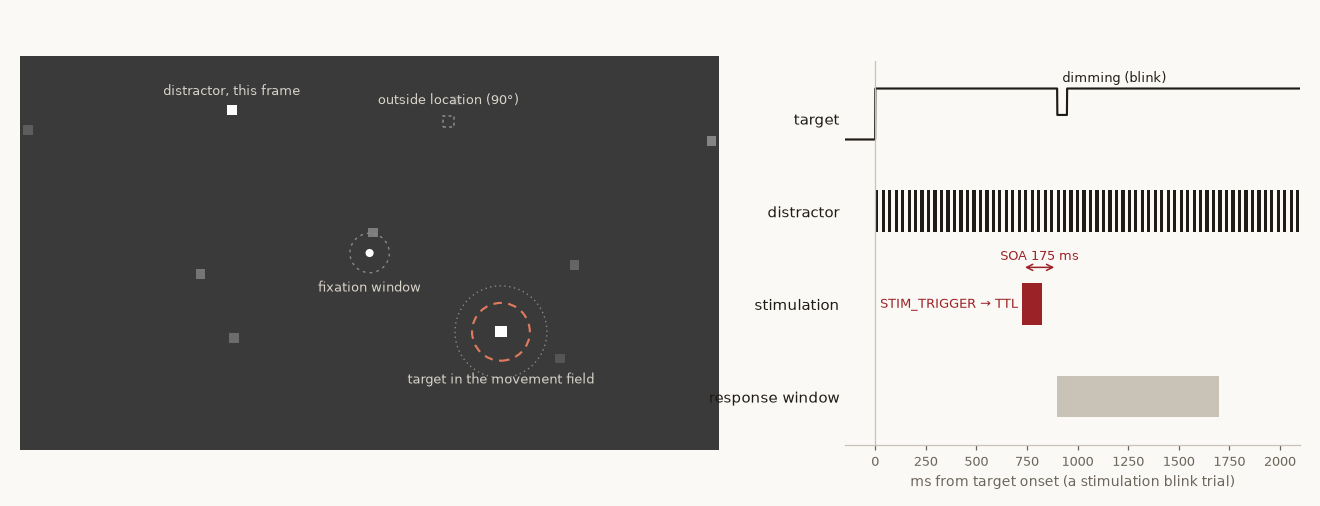
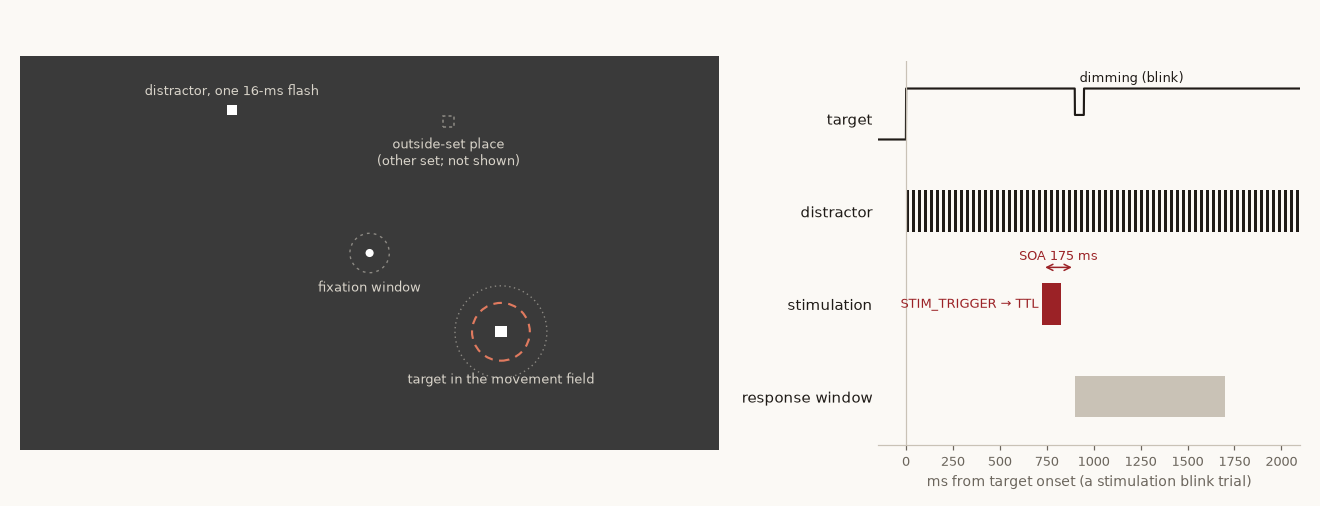
Classics previews: keep exclusive phases and frames apart (Britten, Moore & Fallah, Lisi & Cavanagh)
Britten: the monkey's dots and its two saccade targets were drawn on one panel;
they are now two panels (dots with the fixation window, then targets with their
landing windows). Moore & Fallah: eight earlier distractor flashes were drawn
faintly with the current one; only one flash is drawn now (16 ms of every 32 ms,
never two at once), the outside-set place is labelled as another parameter set,
and the timeline labels are no longer clipped. Lisi & Cavanagh: the perception-vs-
saccade panel is labelled as the paper's reported result, not a stimulus, and the
perceived path as never displayed. Regression tests for Britten and Moore & Fallah.
No task, parameter or timing change.

diff --git a/classics/britten-1992/src/britten1992/preview.py b/classics/britten-1992/src/britten1992/preview.py
@@ -2,12 +2,16 @@
 
     uv run python -m britten1992.preview            # writes docs/preview.png
 
-Two panels from the two params files, drawn with the task's own dot engine
-(britten1992.rdk) at 25.6 % correlation: the human set (aperture on the
-fixation point) and the monkey set (aperture over an example receptive field,
-with the two saccade targets that appear when the dots go off, outlined). Six
+Three panels drawn with the task's own dot engine (britten1992.rdk) at 25.6 %
+correlation, from the two params files. Left: the human set (aperture on the
+fixation point; the answer is a key after the dots go off). Middle and right:
+the monkey set in its two phases, which never share the screen: first the dots
+in an aperture over an example receptive field while fixation is held (the
+dotted ring is the gaze window, not drawn on the screen); then the dots and
+the fixation point go off and the two targets appear for the saccade. Six
 consecutive frames (100 ms at 60 Hz) are superimposed, roughly what the eye
 integrates; signal and noise dots are drawn alike, as on the screen.
+Illustrative and uncalibrated: grey levels are display values, not cd/m2.
 """
 
 from __future__ import annotations
@@ -41,8 +45,20 @@ def _rgb(color: tuple[float, float, float]) -> tuple[float, float, float]:
     return (r, g, b)
 
 
-def _panel(ax, params_file: str, title: str, seed: int) -> None:
-    p = load_params(PROJECT / "configs" / params_file, RdkDirectionTaskParams)
+def _frame(ax, title: str) -> None:
+    ax.set_xlim(-13, 13)
+    ax.set_ylim(-9, 9)
+    ax.set_aspect("equal")
+    ax.set_xticks([])
+    ax.set_yticks([])
+    for side in ax.spines.values():
+        side.set_visible(False)
+    ax.set_title(title, color="#f2f2f2", fontsize=9, pad=4)
+
+
+def _dots_phase(ax, p, title: str, seed: int) -> None:
+    """The dots phase: aperture, dots, fixation point (and, for the monkey, the gaze
+    window as a dotted outline). No targets: they are not on the screen yet."""
     task = RdkDirectionTask(p)
     spec = task.dot_spec(COHERENCE_PCT, "pref", REFRESH_HZ)
     dots = CorrelatedDotField(spec, seed)
@@ -58,27 +74,30 @@ def _panel(ax, params_file: str, title: str, seed: int) -> None:
         ax.scatter(xy[:, 0] + cx, xy[:, 1] + cy, s=2.2, c=[_rgb(p.dot_color)], lw=0)
     ax.add_patch(plt.Circle((0, 0), p.fix_size_dva / 2, color=_rgb(p.fix_color), zorder=5))
     if p.response_mode.value == "saccade_and_reward":
-        for x, y in target_positions_dva(p).values():
-            ax.add_patch(plt.Circle((x, y), p.target_size_dva / 2, fill=False,
-                                    ec=_rgb(p.target_color), lw=1.0, ls="--"))
         ax.add_patch(plt.Circle((0, 0), p.fix_window_dva, fill=False, ec="#d9d9d9", lw=0.6,
                                 ls=":"))
-    ax.set_xlim(-13, 13)
-    ax.set_ylim(-9, 9)
-    ax.set_aspect("equal")
-    ax.set_xticks([])
-    ax.set_yticks([])
-    for side in ax.spines.values():
-        side.set_visible(False)
-    ax.set_title(title, color="#f2f2f2", fontsize=10, pad=4)
+    _frame(ax, title)
+
+
+def _choice_phase(ax, p, title: str) -> None:
+    """The monkey's choice phase: dots and fixation point off, the two targets on
+    (filled, as displayed), their landing windows dotted (gaze criteria, not drawn)."""
+    ax.set_facecolor(GREY)
+    for x, y in target_positions_dva(p).values():
+        ax.add_patch(plt.Circle((x, y), p.target_size_dva / 2, color=_rgb(p.target_color), lw=0))
+        ax.add_patch(plt.Circle((x, y), p.target_window_dva, fill=False, ec="#d9d9d9", lw=0.6,
+                                ls=":"))
+    _frame(ax, title)
 
 
 def render(out: Path) -> Path:
-    fig, axes = plt.subplots(1, 2, figsize=(9.6, 3.6), dpi=110)
+    human = load_params(PROJECT / "configs" / "task.yaml", RdkDirectionTaskParams)
+    monkey = load_params(PROJECT / "configs" / "task-monkey.yaml", RdkDirectionTaskParams)
+    fig, axes = plt.subplots(1, 3, figsize=(12.6, 3.5), dpi=110)
     fig.patch.set_facecolor("#3a3a3a")
-    _panel(axes[0], "task.yaml", "Human set: dots around fixation, then a key", seed=3)
-    _panel(axes[1], "task-monkey.yaml",
-           "Monkey set: dots over the RF, then a saccade to a target", seed=4)
+    _dots_phase(axes[0], human, "Human: dots around fixation (key after)", seed=3)
+    _dots_phase(axes[1], monkey, "Monkey, 1: 2-s dots over the RF, fixation held", seed=4)
+    _choice_phase(axes[2], monkey, "Monkey, 2: dots off, two targets, saccade")
     fig.tight_layout(pad=0.6)
     out.parent.mkdir(parents=True, exist_ok=True)
     fig.savefig(out, facecolor=fig.get_facecolor())

diff --git a/classics/moore-fallah-2001/src/moore_fallah2001/preview.py b/classics/moore-fallah-2001/src/moore_fallah2001/preview.py
@@ -63,13 +63,10 @@ def render(out: Path, params_file: str = "task-monkey-inside.yaml") -> Path:
     ax.add_patch(Rectangle((-half_w, -half_h), 2 * half_w, 2 * half_h,
                            color=_grey(p.background_cd_m2, white)))
     # This frame's distractor: the one nearest the upper-left quadrant's middle, so its
-    # label stays on the display; the rest are drawn faintly as the flashes before it.
+    # label stays on the display. Only one is drawn: a distractor is on for 16 ms of
+    # every 32 ms and the next flash lands elsewhere, so flashes never share a frame.
     current = min(range(len(spots)), key=lambda i: math.hypot(spots[i][0] + half_w / 2,
                                                               spots[i][1] - half_h / 3))
-    ghosts = [s for i, s in enumerate(spots) if i != current]
-    for i, (x, y) in enumerate(ghosts):
-        ax.add_patch(Rectangle((x - ds / 2, y - ds / 2), ds, ds, color="white",
-                               alpha=0.10 + 0.04 * i, lw=0))
     x, y = spots[current]
     ax.add_patch(Rectangle((x - ds / 2, y - ds / 2), ds, ds,
                            color=_grey(p.distractor_cd_m2, white), lw=0))
@@ -86,16 +83,17 @@ def render(out: Path, params_file: str = "task-monkey-inside.yaml") -> Path:
     lab = dict(color="#d9d4ca", fontsize=8.5, family="DejaVu Sans")
     ax.text(target[0], target[1] - 3.1, "target in the movement field", ha="center", va="top",
             **lab)
-    ax.text(outside[0], outside[1] + 1.1, "outside location (90°)", ha="center", va="bottom", **lab)
+    ax.text(outside[0], outside[1] - 1.1, "outside-set place\n(other set; not shown)", ha="center",
+            va="top", **lab)
     ax.text(0, -p.fix_window_radius_dva - 0.6, "fixation window", ha="center", va="top", **lab)
-    ax.text(x, y + ds / 2 + 0.5, "distractor, this frame", ha="center", va="bottom", **lab)
+    ax.text(x, y + ds / 2 + 0.5, "distractor, one 16-ms flash", ha="center", va="bottom", **lab)
     ax.set_xlim(-half_w, half_w)
     ax.set_ylim(-half_h, half_h)
     ax.set_aspect("equal")
     ax.axis("off")
 
     # The timeline, ms from target onset, for a stimulation blink trial.
-    tl = fig.add_axes((0.64, 0.12, 0.345, 0.76), facecolor=PAPER)
+    tl = fig.add_axes((0.665, 0.12, 0.32, 0.76), facecolor=PAPER)
     dim_on, dim_ms = 900.0, 48.0
     soa = p.stimulation.soa.ms or 175.0
     window = p.response_window.ms or 800.0

diff --git a/classics/britten-1992/tests/test_preview.py b/classics/britten-1992/tests/test_preview.py
@@ -1,0 +1,51 @@
+"""The preview keeps mutually exclusive phases apart (classics audit, 2026-11-01).
+
+The monkey's dots and its two saccade targets are never on the screen together, so the
+preview must not draw them on one panel.
+"""
+
+from __future__ import annotations
+
+import matplotlib
+
+matplotlib.use("Agg")
+import matplotlib.pyplot as plt  # noqa: E402
+from alhazen.config.loader import load_params  # noqa: E402
+
+from britten1992 import preview  # noqa: E402
+from britten1992.task import PROJECT, RdkDirectionTaskParams, target_positions_dva  # noqa: E402
+
+
+def _monkey():
+    return load_params(PROJECT / "configs" / "task-monkey.yaml", RdkDirectionTaskParams)
+
+
+def _centres(ax):
+    return [tuple(round(v, 6) for v in patch.center) for patch in ax.patches
+            if hasattr(patch, "center")]
+
+
+def test_dots_phase_draws_no_targets():
+    p = _monkey()
+    fig, ax = plt.subplots()
+    preview._dots_phase(ax, p, "dots", seed=1)
+    targets = {tuple(round(v, 6) for v in xy) for xy in target_positions_dva(p).values()}
+    assert ax.collections, "the dots are drawn"
+    assert not targets & set(_centres(ax))
+    plt.close(fig)
+
+
+def test_choice_phase_draws_no_dots_and_no_fixation_point():
+    p = _monkey()
+    fig, ax = plt.subplots()
+    preview._choice_phase(ax, p, "choice")
+    assert not ax.collections, "no dots once the targets are on"
+    assert (0.0, 0.0) not in set(_centres(ax))
+    targets = {tuple(round(v, 6) for v in xy) for xy in target_positions_dva(p).values()}
+    assert targets <= set(_centres(ax))
+    plt.close(fig)
+
+
+def test_render_writes_three_panels(tmp_path):
+    out = preview.render(tmp_path / "preview.png")
+    assert out.is_file() and out.stat().st_size > 1000

diff --git a/classics/lisi-cavanagh-2015/src/lisi_cavanagh2015/preview.py b/classics/lisi-cavanagh-2015/src/lisi_cavanagh2015/preview.py
@@ -100,19 +100,22 @@ def render(out: Path) -> Path:
             axg.text(-half, -half - 0.08, "white: envelope motion   red: internal drift\n"
                      "stripes along the path, drift across it", fontsize=6.5, va="top")
 
-    # -- physical vs perceived ---------------------------------------------------------------
+    # -- the paper's reported result, kept apart from the stimulus panels -----------------
+    # Not a stimulus and not a result of this software: the perceived (illusory) path is
+    # never on the screen; the panel restates what Lisi & Cavanagh (2015) reported.
     axp = fig.add_subplot(gs[3])
     axp.plot(ends[:, 0] - cx, ends[:, 1] - cy, color="0.2", lw=2.2,
-             label=f"physical path ({traj.angle_deg:.0f} deg):\nwhere saccades land")
+             label=(f"physical path ({traj.angle_deg:.0f} deg, on screen):\n"
+                    "saccades landed along it (paper)"))
     axp.plot([0, 0], [-half_len, half_len], color="#e4572e", lw=2, ls="--",
-             label="perceived path (vertical)")
+             label="reported perceived path (vertical;\nnever displayed)")
     axp.set_xlim(-2.2, 2.2)
     axp.set_ylim(-2.2, 2.2)
     axp.set_aspect("equal")
     axp.set_xticks([])
     axp.set_yticks([])
     axp.legend(fontsize=6.8, loc="lower center", frameon=False, bbox_to_anchor=(0.5, -0.32))
-    axp.set_title("Perception vs saccades", fontsize=9)
+    axp.set_title("Paper's result (Fig. 1), not a stimulus", fontsize=8.5)
     for s in axp.spines.values():
         s.set_color("0.8")
     out.parent.mkdir(parents=True, exist_ok=True)

diff --git a/classics/moore-fallah-2001/tests/test_preview.py b/classics/moore-fallah-2001/tests/test_preview.py
@@ -1,0 +1,36 @@
+"""The preview draws one distractor flash, never several at once (classics audit, 2026-11-01).
+
+A distractor is on for 16 ms of every 32 ms and the next flash lands elsewhere, so a
+single frame of the display holds at most one.
+"""
+
+from __future__ import annotations
+
+import matplotlib
+
+matplotlib.use("Agg")
+import matplotlib.pyplot as plt  # noqa: E402
+from matplotlib.patches import Rectangle  # noqa: E402
+
+from moore_fallah2001 import preview  # noqa: E402
+
+
+def test_one_distractor_on_the_display(tmp_path, monkeypatch):
+    figs = []
+    real_savefig = plt.Figure.savefig
+
+    def keep(self, *args, **kwargs):
+        figs.append(self)
+        return real_savefig(self, *args, **kwargs)
+
+    monkeypatch.setattr(plt.Figure, "savefig", keep)
+    monkeypatch.setattr(plt, "close", lambda *a, **k: None)
+    preview.render(tmp_path / "preview.png")
+    display = figs[0].axes[0]
+    labels = [t.get_text() for t in display.texts]
+    assert any("one 16-ms flash" in s for s in labels)
+    # Filled squares on the display: the target and one distractor. The background is the
+    # full-screen rectangle; the outside-set place is an unfilled outline.
+    filled = [p for p in display.patches if isinstance(p, Rectangle) and p.get_fill()
+              and p.get_width() < 5]
+    assert len(filled) == 2
